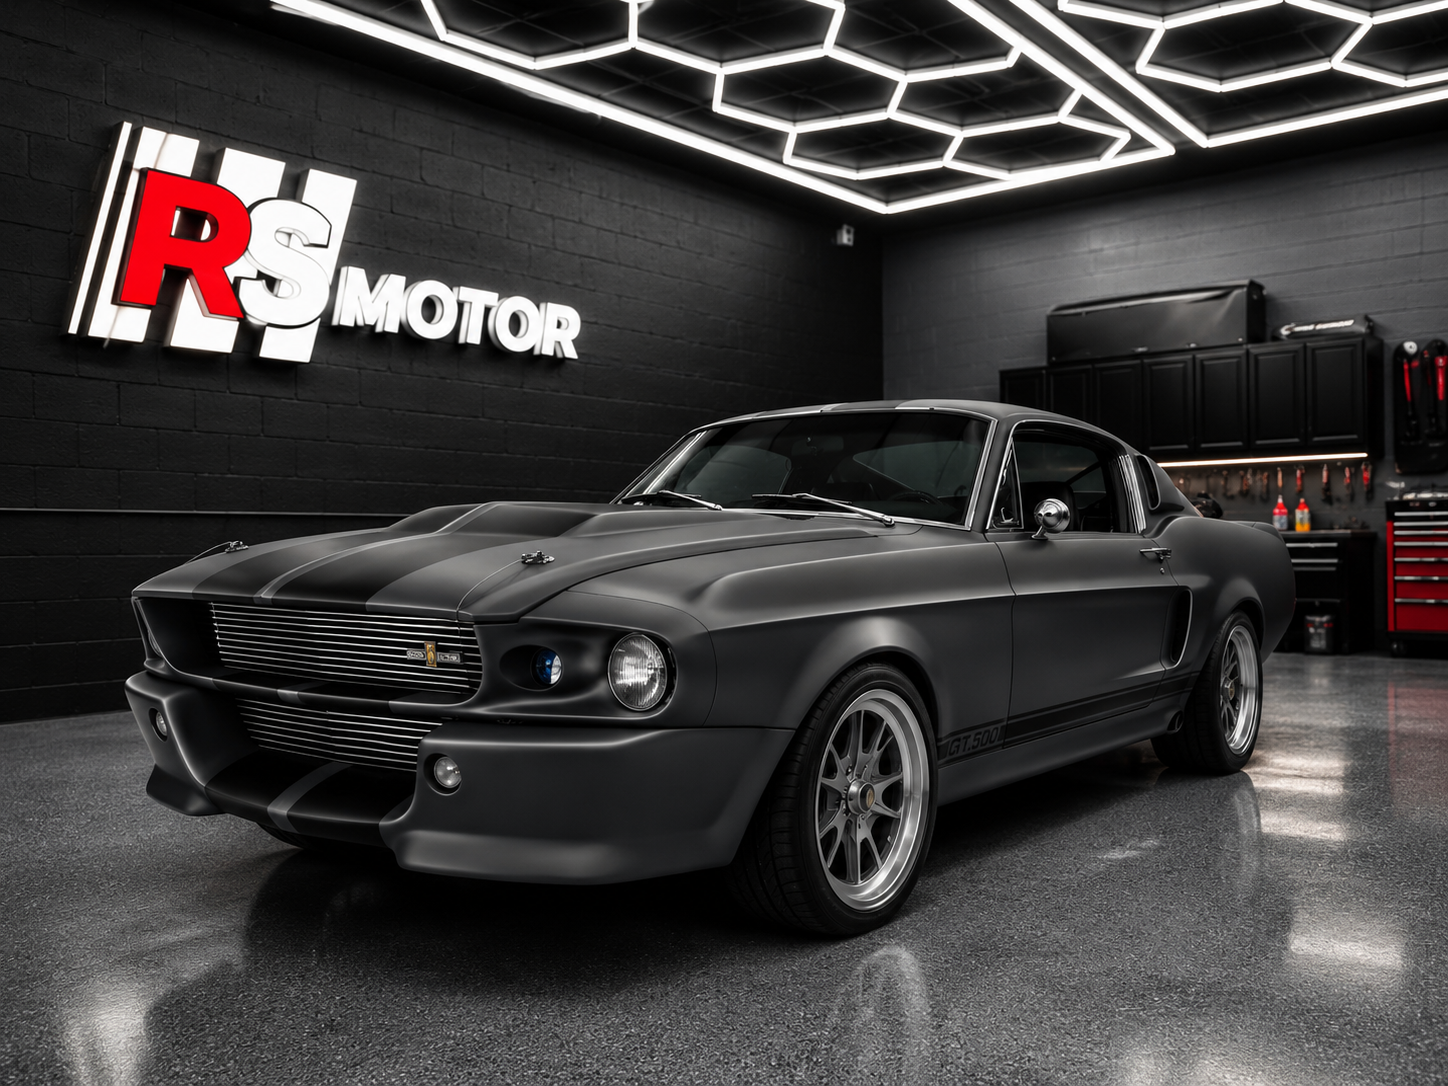
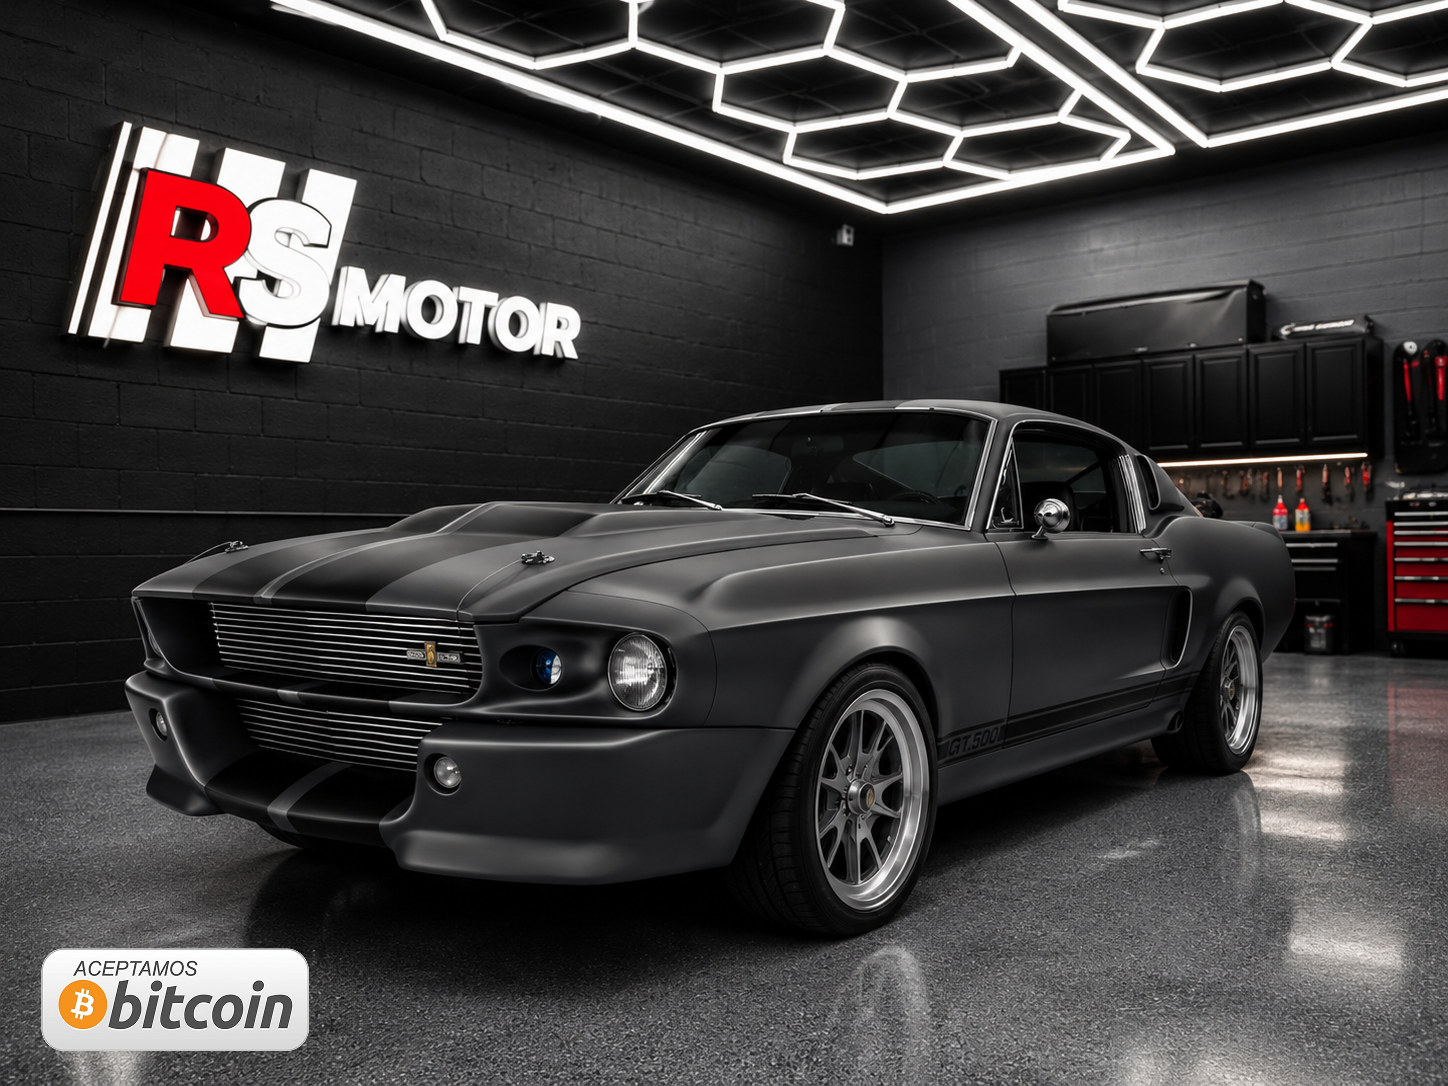
Sustituir portada del Eleanor por version con sello Bitcoin incluido
La nueva imagen ya trae el sello "Aceptamos Bitcoin" compuesto en
la propia foto, asi que se retira el badge automatico (BitcoinBadge)
para no duplicarlo.

Changed region(s): [[0.0311, 0.8508, 0.2175, 0.9724]]

diff --git a/src/components/CarCard.tsx b/src/components/CarCard.tsx
@@ -1,7 +1,6 @@
 import Image from "next/image";
 import Link from "next/link";
 import type { Car } from "@/lib/cars";
-import BitcoinBadge from "./BitcoinBadge";
 
 export default function CarCard({ car }: { car: Car }) {
   return (
@@ -22,7 +21,6 @@ export default function CarCard({ car }: { car: Car }) {
             Réplica
           </span>
         )}
-        <BitcoinBadge />
       </div>
       <div className="p-4">
         <h3 className="font-heading text-lg font-medium text-white">{car.titulo}</h3>